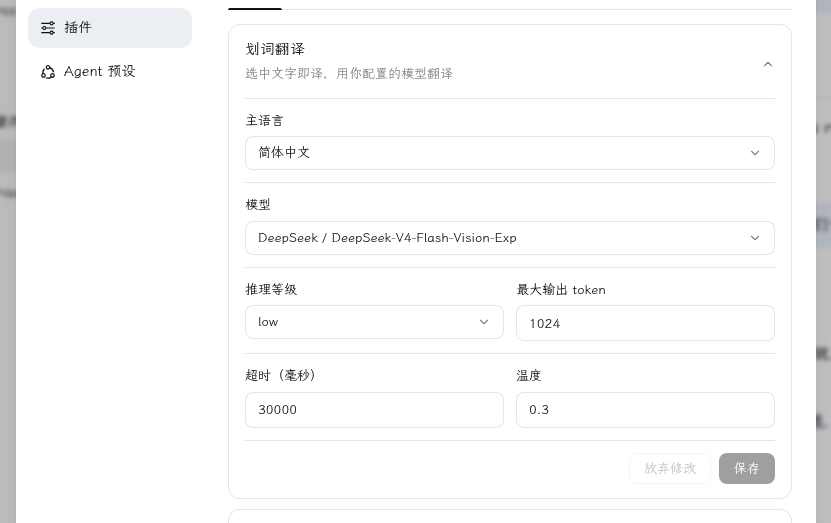
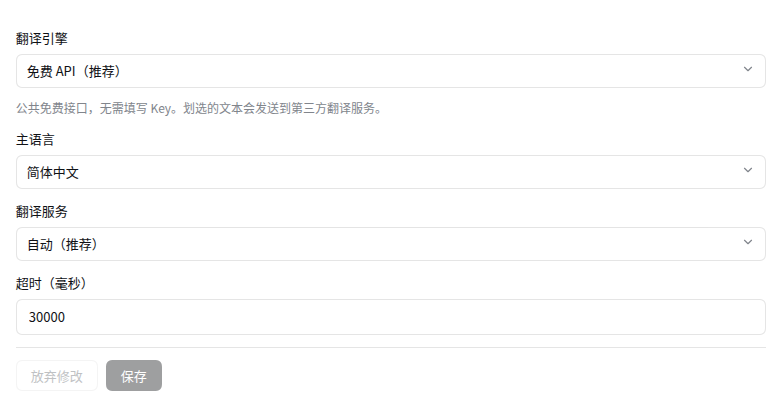
fix: make the browser scripts actually run, and reuse the browser already present
Verified both against a live instance this time, which surfaced three bugs that
reading the code would not have caught.

Both scripts launched with the default headless build — the stripped "headless
shell" rather than chromium — so a machine that already has a chromium (a DSH
checkout ships one) still failed with "Executable doesn't exist". Asking for
`channel: 'chromium'` uses the installed full build instead, which also renders
the UI and its CSS the way a user actually sees them.

regenerate-screenshots.js clicked 设置 before 插件. 设置 opens the general
Settings modal, which stays on top of the plugin page, so the settings crop
captured the modal — my first attempt produced a picture of the font-size and
theme controls. Navigation is 插件 → the bundle's own entry, and nothing else.
The crop now spans the whole form, since the narrower one sliced the right edge
off the select controls. client.smoke.mjs carried the same stray click; its DOM
assertions passed regardless, because z-order is invisible to
querySelectorAll, which is exactly why the bug stayed hidden.

The screenshot tool also depended on a gitignored fontconfig.conf that
hard-coded one absolute checkout path, so any other clone rendered every CJK
glyph as an empty box. It now generates that fontconfig from .fonts/ next to
itself, and falls back to the system font when .fonts/ is absent.

screenshots/config.png regenerated: the committed one was from August and
showed the six-field model form that no longer exists.

diff --git a/scripts/regenerate-screenshots.js b/scripts/regenerate-screenshots.js
@@ -11,8 +11,12 @@
 // Usage:
 //   node scripts/regenerate-screenshots.js "http://127.0.0.1:3210/?token=XXXX"
 //
-// CJK glyphs come from the workspace LXGWWenKai font via fontconfig.conf at the
-// package root, so the crops render Chinese instead of tofu boxes.
+// CJK glyphs would otherwise render as tofu boxes. The 25 MB WenKai font lives
+// in .fonts/ and is NOT committed (.fonts/ is gitignored), so this generates a
+// fontconfig pointing at it, by path relative to this script. When the font is
+// absent, nothing is set and the browser falls back to the system's own CJK
+// font — the crops degrade, they do not fail.
+import { existsSync, mkdirSync, writeFileSync } from 'node:fs'
 import { createRequire } from 'node:module'
 import { dirname, join } from 'node:path'
 import { fileURLToPath } from 'node:url'
@@ -37,15 +41,44 @@ try {
 }
 
 const ROOT = join(dirname(fileURLToPath(import.meta.url)), '..')
-const FONT_CONFIG = join(ROOT, 'fontconfig.conf')
+const FONT_DIR = join(ROOT, '.fonts')
+const FONT_CACHE = join(ROOT, '.fonts-cache')
 const OUT = join(ROOT, 'screenshots')
 const WIDTH = 815
 
+/**
+ * The `FONTCONFIG_FILE` env chromium should get, or nothing when there is no
+ * in-repo font to point at.
+ *
+ * Generating this here replaces a machine-specific fontconfig.conf that was
+ * gitignored anyway: it hard-coded one absolute checkout path, so a clone
+ * anywhere else silently rendered every CJK glyph as an empty box.
+ */
+function fontConfigEnv() {
+  if (!existsSync(FONT_DIR)) return {}
+  mkdirSync(FONT_CACHE, { recursive: true })
+  const escape = (value) => value.replace(/&/g, '&amp;').replace(/</g, '&lt;').replace(/>/g, '&gt;')
+  const file = join(FONT_CACHE, 'fontconfig.conf')
+  writeFileSync(file, `<?xml version="1.0"?>
+<!DOCTYPE fontconfig SYSTEM "fonts.dtd">
+<fontconfig>
+  <include ignore_missing="yes">/etc/fonts/fonts.conf</include>
+  <dir>${escape(FONT_DIR)}</dir>
+  <cachedir>${escape(FONT_CACHE)}</cachedir>
+</fontconfig>
+`)
+  return { FONTCONFIG_FILE: file }
+}
+
 async function main() {
+  // `channel: 'chromium'` rather than the default headless shell: it reuses a
+  // chromium that is already installed (a DSH checkout has one) and renders
+  // exactly what the user sees, which is the point of a screenshot.
   const browser = await chromium.launch({
+    channel: 'chromium',
     headless: true,
     args: ['--no-sandbox', '--disable-dev-shm-usage'],
-    env: { ...process.env, FONTCONFIG_FILE: FONT_CONFIG },
+    env: { ...process.env, ...fontConfigEnv() },
   })
   const page = await browser.newPage({ viewport: { width: 1120, height: 820 } })
   const errs = []
@@ -153,21 +186,28 @@ async function main() {
   } else console.error('button did not appear (3)')
 
   // ── 4. config.png ───────────────────────────────────────────────────────
-  // The settings form is a page in the Plugins list rather than a card, so the
-  // crop targets the form container itself.
+  // The settings form is a page in the Plugins list, not a card. Reach it with
+  // 插件 → the bundle's own entry. Do NOT click 设置 first: that opens the
+  // general Settings modal on top of it, and the crop would capture the modal
+  // instead of the plugin form.
+  // The viewport is narrowed first so the form lands near the same ~815px width
+  // the conversation crops above use.
   await page.keyboard.press('Escape'); await page.waitForTimeout(400)
+  await page.setViewportSize({ width: 1120, height: 820 })
+  await page.waitForTimeout(600)
   const nav = async (text) => page.evaluate((t) => {
     const w = document.createTreeWalker(document.body, NodeFilter.SHOW_TEXT)
     let n
     while ((n = w.nextNode())) if ((n.textContent || '').trim() === t) { let el = n.parentElement; for (let i = 0; i < 6 && el; i++) { if (el.onclick || el.tagName === 'BUTTON' || el.getAttribute('role') === 'button' || el.getAttribute('role') === 'menuitem') break; el = el.parentElement } if (el) { el.click(); return true } }
     return false
   }, text)
-  await nav('设置'); await page.waitForTimeout(2000)
   await nav('插件'); await page.waitForTimeout(2500)
-  await nav('划词翻译'); await page.waitForTimeout(1500)
+  await nav('划词翻译'); await page.waitForTimeout(1800)
   const form = await page.evaluate(() => document.querySelector('[data-dsh-translator-settings]')?.getBoundingClientRect().toJSON() || null)
   if (form) {
-    const clip = { x: Math.max(0, form.x - 16), y: Math.max(0, form.y - 24), width: Math.min(WIDTH + 16, Math.min(831, 1400 - Math.max(0, form.x - 16))), height: form.height + 48 }
+    // Full form width plus a margin: the select controls span the whole form,
+    // so a narrower crop would slice their right edges off.
+    const clip = { x: Math.max(0, form.x - 16), y: Math.max(0, form.y - 28), width: Math.min(WIDTH, form.width + 32), height: form.height + 56 }
     await page.screenshot({ path: join(OUT, 'config.png'), clip })
     console.log('saved config.png', JSON.stringify(clip))
   } else {

diff --git a/README.zh.md b/README.zh.md
@@ -112,25 +112,6 @@ dsh plugin --profile web remove @nicearrack/dsh-translator
 
 重启实例（`dsh --profile web`）后生效。
 
-## 开发
-
-`npm test` 跑的是 Node 套件（`tests/host.test.mjs`、`tests/client.test.mjs`）—— 不用浏览器、不联网，两秒内跑完。它们用 mock 的 `fetch` 驱动打包后的 Host 半边走真实的 `/api` 路由，并用一个**假 React** 求值 `client/core.js`。
-
-这个「假 React」就是它的边界：它只记录 element，**从不调用嵌套组件**，所以看不到真实渲染、划选 → 按钮 → 卡片的交互、拖拽/固定、CSS，也走不了真正的认证往返。这一层由 `tests/client.smoke.mjs` 在真实浏览器里覆盖。它是**按需运行**的，因为它需要一些 `npm test` 不该依赖的东西：
-
-```sh
-npm i -D playwright && npx playwright install chromium
-
-# 另开一个加载了本插件的 DSH 实例，例如
-pnpm dsh web --patch /path/to/dsh-translator/dev.patch.yml --port 3210 --no-open
-
-npm run test:smoke -- "http://127.0.0.1:3210/?token=XXXX"
-```
-
-它是只读的：不保存、不切语言、不写设置 —— 只会往草稿里输入以观察「已覆盖」标记的实时反应，然后关掉页面。
-
-`npm run screenshots -- "<带 token 的 url>"` 用于重新生成 `screenshots/*.png`，它针对一个名为「截图专用」的会话；需要同样的 playwright 前置条件。
-
 ## License
 
 [MIT](LICENSE)

diff --git a/README.md b/README.md
@@ -115,25 +115,6 @@ dsh plugin --profile web remove @nicearrack/dsh-translator
 
 Restart the instance (`dsh --profile web`) for the removal to take effect.
 
-## Development
-
-`npm test` runs the Node suites (`tests/host.test.mjs`, `tests/client.test.mjs`) — no browser, no network, a couple of seconds. They drive the packaged Host half over its real `/api` routes with a mocked `fetch`, and evaluate `client/core.js` against a stub React.
-
-That stub is the limit worth knowing about: it records elements but never invokes a nested component, so those suites cannot see real rendering, the selection → button → card interaction, drag/pin, CSS, or an actual authenticated round trip. `tests/client.smoke.mjs` covers that layer in a real browser. It is **opt-in**, because it needs things `npm test` must not:
-
-```sh
-npm i -D playwright && npx playwright install chromium
-
-# a DSH instance carrying this plugin, e.g.
-pnpm dsh web --patch /path/to/dsh-translator/dev.patch.yml --port 3210 --no-open
-
-npm run test:smoke -- "http://127.0.0.1:3210/?token=XXXX"
-```
-
-It is read-only: it never saves, switches locale or writes settings — it types into a draft to watch the override badge react, then closes the page.
-
-`npm run screenshots -- "<url with token>"` regenerates `screenshots/*.png` against a session named 「截图专用」; it needs the same playwright prerequisite.
-
 ## License
 
 [MIT](LICENSE)
